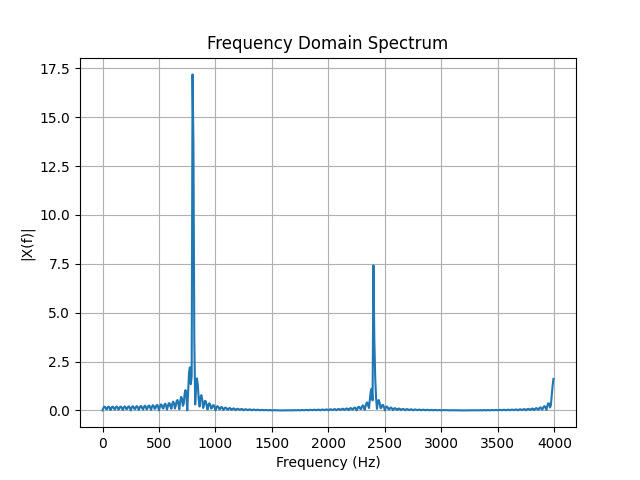
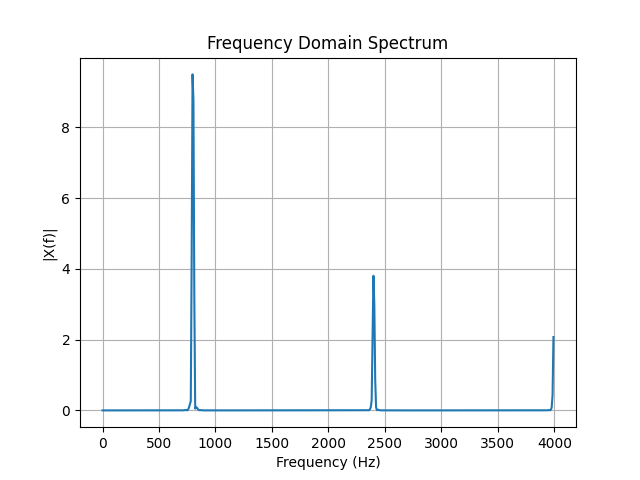
Wrote a windowing function and fixed the bug in find_note()

diff --git a/CPUlator-testing/fft-testing/FFT-testing.c b/CPUlator-testing/fft-testing/FFT-testing.c
@@ -152,29 +152,36 @@ void fft(double complex * a, int n, bool inverse) {
 
 
 char* find_note(double * bins, int n){
-    int max_k = 0;
-    for(int i = 0; i < n; i++){
+    int max_k = 1;                      // skip bin 0, which is the DC value
+    for(int i = 0; i < n/2; i++){
         if(bins[i] > bins[max_k]) max_k = i;
     }
     double freq = (double) max_k * f_s / n;
     
-    // something is wrong here
-    
-    printf("bin number and n: %d, %d\n", max_k, n);
     printf("Found frequency: %.2lf\n", freq);
 
     // iterate through frequency array to find the closest frequency
     int note_idx = 0;
     for(int i = 0; i < num_notes; i++){
-        if(abs(frequencies[i] - freq) < abs(frequencies[note_idx] - freq)) note_idx = i;
+        if(fabs(frequencies[i] - freq) < fabs(frequencies[note_idx] - freq)) note_idx = i;
     }
     return notes[note_idx];
 }
 
 
+// Applies a Hann window to the audio input
+void window(double* audio_input, int audio_size){
+    for(int i = 0; i < audio_size; i++){
+        double w = sin(PI * i / audio_size);
+        audio_input[i] *= w*w;
+    }
+}
+
 
 
 char * get_fft_result(double* audio_input, int audio_size){
+    window(audio_input, audio_size);
+
     int n = next_pow2(audio_size);
 
     complex double * a = format_input(audio_input, audio_size);

diff --git a/source/fft.c b/source/fft.c
@@ -88,16 +88,16 @@ void fft(double complex * a, int n, bool inverse) {
 
 
 char* find_note(double * bins, int n){
-    int max_k = 0;
-    for(int i = 0; i < n; i++){
+    int max_k = 1;                      // skip bin 0, which is the DC value
+    for(int i = 0; i < n/2; i++){
         if(bins[i] > bins[max_k]) max_k = i;
     }
     double freq = (double) max_k * f_s / n;
-    
+
     // iterate through frequency array to find the closest frequency
     int note_idx = 0;
     for(int i = 0; i < num_notes; i++){
-        if(abs(frequencies[i] - freq) < abs(frequencies[note_idx] - freq)) note_idx = i;
+        if(fabs(frequencies[i] - freq) < fabs(frequencies[note_idx] - freq)) note_idx = i;
     }
     return notes[note_idx];
 }
@@ -105,7 +105,21 @@ char* find_note(double * bins, int n){
 
 
 
+// Applies a Hann window to the audio input
+void window(double* audio_input, int audio_size){
+    for(int i = 0; i < audio_size; i++){
+        double w = sin(PI * i / audio_size);
+        audio_input[i] *= w*w;
+    }
+}
+
+
+
+
+
 char * get_fft_result(double* audio_input, int audio_size){
+    window(audio_input, audio_size);
+
     int n = next_pow2(audio_size);
 
     complex double * a = format_input(audio_input, audio_size);

diff --git a/CPUlator-testing/fft-testing/create-audio-file.c b/CPUlator-testing/fft-testing/create-audio-file.c
@@ -7,7 +7,7 @@ void create_frequency_file(double frequency, double volume, double duration){
     fptr = fopen("audio-data.txt", "w");
 
     double t_sample = 125.0 / 1000000.0;
-    int half_period_samples = (int)((1.0 / frequency / 2.0) / t_sample);
+    double half_period_samples = ((1.0 / frequency / 2.0) / t_sample);
 
     if (half_period_samples < 1) half_period_samples = 1;
 
@@ -32,7 +32,6 @@ void create_frequency_file(double frequency, double volume, double duration){
             sign = -sign;
             counter = 0;
         }
-        
     }
 
     // Close the file

diff --git a/source/hal/PS2.c b/source/hal/PS2.c
@@ -1,5 +1,6 @@
 #include "PS2.h"
 #include "../address-map.h"
+
 #include <string.h>
 #include <stdbool.h>
 
@@ -14,6 +15,7 @@ void PS2_init(){
     ps2_ctr_reg = (volatile int *) PS2_BASE + 1;
 
     *ps2_data_reg = 0xFF;   // reset and clear FIFO
+    *ps2_ctr_reg  = 0x1;    // enable the PS/2 port (RE bit)
 }
 
 
@@ -106,7 +108,6 @@ char ps2_decoder(int keycode){
 
 
 
-
 char get_keycode(){
     int RVALID = 0, PS2_data;
 
@@ -117,7 +118,6 @@ char get_keycode(){
             return (PS2_data & 0xFF);
     } 
 }
-
 
 
 

diff --git a/source/hal/PS2.h b/source/hal/PS2.h
@@ -1,8 +1,14 @@
 #ifndef __PS2__
 #define __PS2__
 
+#include <stdbool.h>
+
 volatile int * ps2_data_reg;
 volatile int * ps2_ctr_reg;
+
+bool break_code;  // true if F0 seen
+bool extended;     // true if E0 seen
+bool shift;        // true if shift is currently pressed
 
 
 void PS2_init();

diff --git a/CPUlator-testing/ps2-keyboard-testing.c b/CPUlator-testing/ps2-keyboard-testing.c
@@ -16,6 +16,7 @@ void PS2_init(){
     ps2_ctr_reg = (volatile int *) PS2_BASE + 1;
 
     *ps2_data_reg = 0xFF;   // reset and clear FIFO
+    *ps2_ctr_reg  = 0x1;    // enable the PS/2 port (RE bit)
 
     break_code = false; 
     extended = false;  
